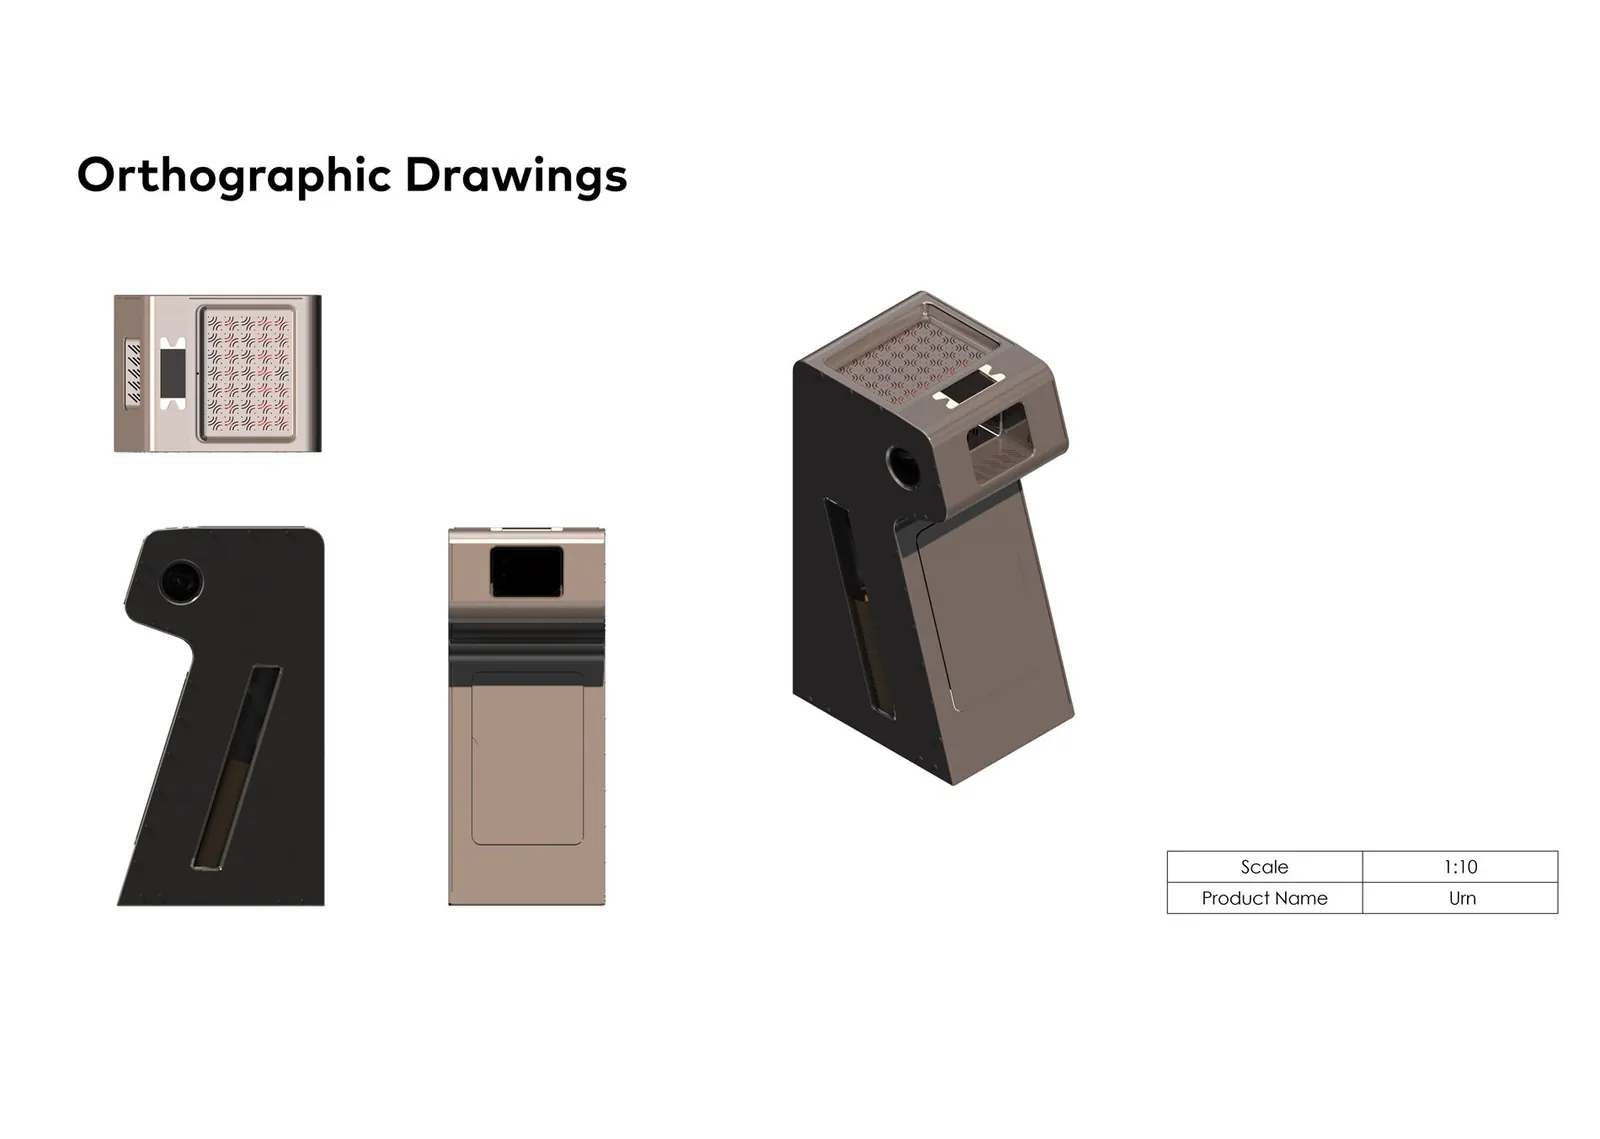
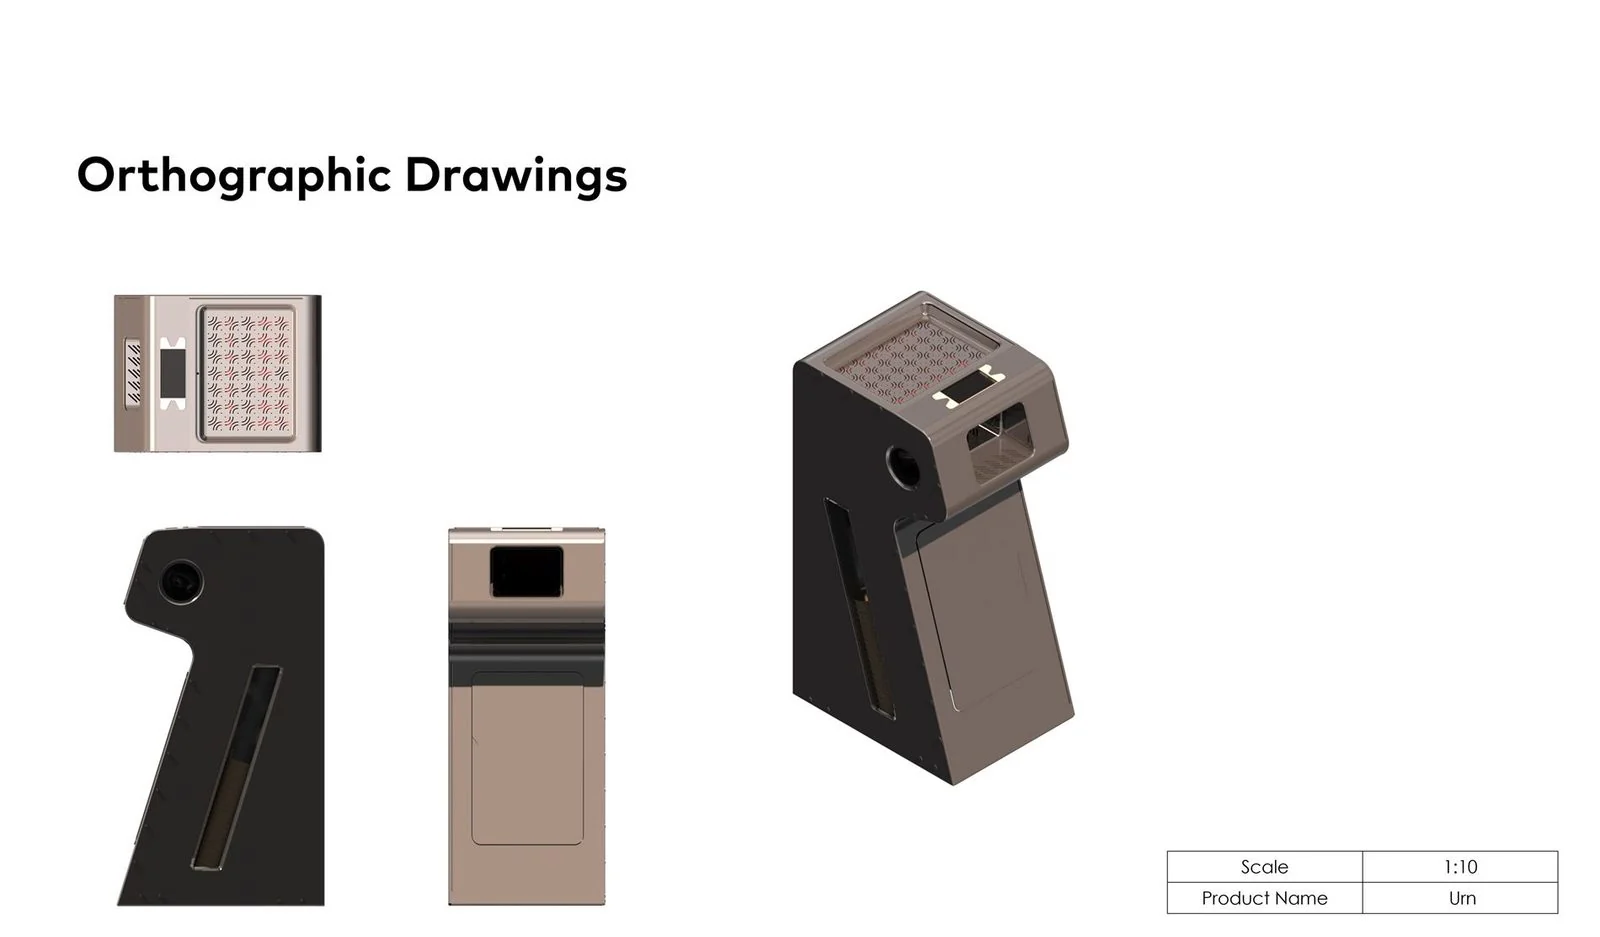
Case-study edits: Herptile + Urn (Bedirhan review round 1)
Herptile:
- Removed the DFM/DFA "foldability shaped the production method"
  section and the Prototype & Tests section (the CAD-only disclosure).
- Renumbered following sections, dropped both subnav links.

Urn:
- Added a second concept paragraph: the station also collects and
  recycles used cups, had to be easy to maintain and simple to use,
  used transit-card promotions to encourage public transport and ease
  Istanbul traffic, and ultimately aimed to draw people into
  socializing in their own neighborhood. All three languages.
- Cropped 202px of empty white off the bottom of the orthographic-
  drawings image.
- Removed the Prototype & Tests section, renumbered, dropped subnav.

Claude-Session: https://claude.ai/code/session_0165a9d6omfQcLmb3xZsq5Zj

diff --git a/work/herptile.html b/work/herptile.html
@@ -131,8 +131,6 @@
       <a href="#sketch" data-i18n="cs.subnav.sketch">Sketch</a>
       <a href="#cad" data-i18n="cs.subnav.cad">CAD</a>
       <a href="#muhendislik" data-i18n="cs.subnav.muhendislik">Mühendislik</a>
-      <a href="#dfm">DFM/DFA</a>
-      <a href="#prototip" data-i18n="cs.subnav.prototiptestler">Prototip &amp; Testler</a>
       <a href="#iterasyon" data-i18n="cs.subnav.iterasyon">İterasyon</a>
       <a href="#nihai" data-i18n="cs.subnav.nihai">Nihai</a>
       <a href="#kazanim" data-i18n="cs.subnav.kazanim">Kazanım</a>
@@ -208,24 +206,9 @@
     </div>
   </section>
 
-  <section class="case-section" id="dfm">
-    <div class="wrap" data-reveal>
-      <span class="eyebrow">08, <span data-i18n="cs.eyebrow.dfm">DFM / DFA</span></span>
-      <h2 data-i18n="cs.hp.dfm.h">Katlanabilirlik, üretim yöntemini şekillendirdi</h2>
-      <p data-i18n="cs.hp.dfm.p">Sac büküm, hem üçgen ayak yapısının tek parça büküm ile üretilmesine hem de gövdenin paylaşımlı tesislerde kolayca katlanıp saklanmasına imkan verdi. Bu, malzeme seçiminin sadece maliyet değil, tesis alanı kısıtı gibi hizmet düzeyi gereksinimlerinden de etkilendiği bir karardı.</p>
-    </div>
-  </section>
-
-  <section class="case-section" id="prototip">
-    <div class="wrap" data-reveal>
-      <span class="eyebrow">09, <span data-i18n="cs.eyebrow.prototiptestler">Prototip &amp; Testler</span></span>
-      <div class="callout" data-i18n-html="cs.hp.prototip.callout"><strong>Netlik için:</strong> Bu proje için fiziksel bir prototip üretilmedi, doğrulama CAD ve teknik çizim seviyesinde kaldı. Bu yüzden gerçek kullanım veya havuz testi de yapılmadı; kullanıcı doğrulaması ekosistem araştırması ve müşteri yolculuğu analizi seviyesinde kaldı.</div>
-    </div>
-  </section>
-
   <section class="case-section" id="iterasyon">
     <div class="wrap" data-reveal>
-      <span class="eyebrow">10, <span data-i18n="cs.eyebrow.iterasyon">İterasyon</span></span>
+      <span class="eyebrow">08, <span data-i18n="cs.eyebrow.iterasyon">İterasyon</span></span>
       <h2 data-i18n="cs.hp.iter.h">Genel ölçülerden mekanizma detayına</h2>
       <p data-i18n="cs.hp.iter.p">İlk eskizler yatağın genel ölçülerini belirledi, sonraki aşamada kayar platformun kablo ve yay mekanizması detaylandırıldı. Gövde formu, katlanabilirlik ve sac büküm üretim kısıtına göre yeniden şekillendirildi.</p>
     </div>
@@ -233,7 +216,7 @@
 
   <section class="case-section" id="nihai">
     <div class="wrap" data-reveal>
-      <span class="eyebrow">11, <span data-i18n="cs.eyebrow.nihai">Nihai Tasarım</span></span>
+      <span class="eyebrow">09, <span data-i18n="cs.eyebrow.nihai">Nihai Tasarım</span></span>
       <h2 data-i18n="cs.shared.result">Sonuç</h2>
       <div class="media-slot is-ready"><picture><source srcset="../assets/img/herptile/hero-render.webp" type="image/webp"><img src="../assets/img/herptile/hero-render.jpg" alt="Herptile istasyonu, havuz kenarında üç renk varyantıyla" loading="lazy" decoding="async"></picture></div>
     </div>
@@ -241,7 +224,7 @@
 
   <section class="case-section case-outcome" id="kazanim">
     <div class="wrap">
-      <span class="eyebrow">12, <span data-i18n="cs.eyebrow.kazanim">Kazanım</span></span>
+      <span class="eyebrow">10, <span data-i18n="cs.eyebrow.kazanim">Kazanım</span></span>
       <h2 data-i18n="cs.hp.kazanim.h">Fiziksel ürünü hizmet katmanıyla birlikte tasarlamak</h2>
       <p data-i18n="cs.hp.kazanim.p">Bu proje, tek bir nesneyi değil, doktor önerisinden kurumsal iş birliklerine uzanan bir sistemi tasarlama alıştırmasıydı. Sac büküm gövde tasarımı ile uygulama üzerinden yürüyen kullanıcı yolculuğunun yan yana durması, ürün ve hizmet tasarımının birlikte düşünülebildiğini gösteriyor.</p>
     </div>

diff --git a/work/urn.html b/work/urn.html
@@ -132,7 +132,6 @@
       <a href="#cad" data-i18n="cs.subnav.cad">CAD</a>
       <a href="#muhendislik" data-i18n="cs.subnav.muhendislik">Mühendislik</a>
       <a href="#dfm">DFM/DFA</a>
-      <a href="#prototip" data-i18n="cs.subnav.prototiptestler">Prototip &amp; Testler</a>
       <a href="#iterasyon" data-i18n="cs.subnav.iterasyon">İterasyon</a>
       <a href="#nihai" data-i18n="cs.subnav.nihai">Nihai</a>
       <a href="#kazanim" data-i18n="cs.subnav.kazanim">Kazanım</a>
@@ -177,6 +176,7 @@
       <span class="eyebrow">04, <span data-i18n="cs.eyebrow.konsept">Konsept Geliştirme</span></span>
       <h2 data-i18n="cs.urn.konsept.h">Sosyal etkileşim yönü seçildi</h2>
       <p data-i18n="cs.urn.konsept.p">İki yön arasından "sosyal etkileşim" konsepti geliştirmeye değer bulundu, çünkü çay Türk kültüründe zaten var olan bir sosyal ritüel ve yeni bir davranış öğretmek yerine mevcut bir alışkanlığı güçlendiriyor. Sistem, bir tramvay veya otobüs durağı gibi mahallenin günlük güzergâhına yerleşecek şekilde tasarlandı.</p>
+      <p data-i18n="cs.urn.konsept.p2">Sistem aynı zamanda atık bardakların makinede toplanıp geri dönüştürülebildiği bir istasyon olarak kurgulandı; bakımı kolay, kullanımı basit olmalıydı. Toplu taşıma kartı kullanımı arttıkça hediye sıcak içecek gibi promosyonlarla toplu taşımayı özendirerek İstanbul'un trafiğini bir ölçüde hafifletmesi hedeflendi. Nihayetinde amaç, insanları kendi mahallelerinde sosyalleşmeye yöneltmek ve o mahalleye daha ait hissettirmekti.</p>
       <div class="media-slot is-ready"><picture><source srcset="../assets/img/urn/concept-aim.webp" type="image/webp"><img src="../assets/img/urn/concept-aim.jpg" alt="Urn tasarımının amacı: çayı özgürlük, sosyal etkileşim ve başarı hissiyle birleştirmek" loading="lazy" decoding="async"></picture></div>
     </div>
   </section>
@@ -217,16 +217,9 @@
     </div>
   </section>
 
-  <section class="case-section" id="prototip">
-    <div class="wrap" data-reveal>
-      <span class="eyebrow">09, <span data-i18n="cs.eyebrow.prototiptestler">Prototip &amp; Testler</span></span>
-      <div class="callout" data-i18n-html="cs.urn.prototip.callout"><strong>Netlik için:</strong> Bu proje için fiziksel bir prototip üretilmedi, doğrulama CAD ve render seviyesinde kaldı. Bu yüzden gerçek kullanım veya saha testi de yapılmadı; kullanıcı doğrulaması saha araştırması ve AEIOU analizi aşamasında kaldı.</div>
-    </div>
-  </section>
-
   <section class="case-section" id="iterasyon">
     <div class="wrap" data-reveal>
-      <span class="eyebrow">10, <span data-i18n="cs.eyebrow.iterasyon">İterasyon</span></span>
+      <span class="eyebrow">09, <span data-i18n="cs.eyebrow.iterasyon">İterasyon</span></span>
       <h2 data-i18n="cs.urn.iter.h">Yapıdan tek üniteye</h2>
       <p data-i18n="cs.urn.iter.p">En büyük iterasyon, kapsam daraltmasıydı: ilk eskizlerdeki çok işlevli yapı (kule, bank, oyun masası) tek bir dağıtım ünitesine indirgendi. Bu karar, üretilebilirliği artırdı ve tasarımın bakım senaryosu gibi tek bir katmana derinlemesine odaklanmasını sağladı.</p>
     </div>
@@ -234,7 +227,7 @@
 
   <section class="case-section" id="nihai">
     <div class="wrap" data-reveal>
-      <span class="eyebrow">11, <span data-i18n="cs.eyebrow.nihai">Nihai Tasarım</span></span>
+      <span class="eyebrow">10, <span data-i18n="cs.eyebrow.nihai">Nihai Tasarım</span></span>
       <h2 data-i18n="cs.shared.result">Sonuç</h2>
       <div class="media-slot media-slot--sq7-5 is-ready"><picture><source srcset="../assets/img/urn/hero-lifestyle-render.webp" type="image/webp"><img src="../assets/img/urn/hero-lifestyle-render.jpg" alt="Urn'ün sokak ortamında kullanım render'ı" loading="lazy" decoding="async"></picture></div>
     </div>
@@ -242,7 +235,7 @@
 
   <section class="case-section case-outcome" id="kazanim">
     <div class="wrap">
-      <span class="eyebrow">12, <span data-i18n="cs.eyebrow.kazanim">Kazanım</span></span>
+      <span class="eyebrow">11, <span data-i18n="cs.eyebrow.kazanim">Kazanım</span></span>
       <h2 data-i18n="cs.urn.kazanim.h">Üretim düşüncesiyle tasarlanmış bir sistem</h2>
       <p data-i18n="cs.urn.kazanim.p">Proje bir CAD render setinde kalmadı. Ana gövde, kapaklar, drenaj tepsileri, çay kutusu ve bağlantı elemanları için malzeme ve üretim yöntemi (lazer kesim paslanmaz sac, enjeksiyon kalıplama polikarbonat, ekstrüzyon) tek tek tanımlandı. Konseptin gerçek bir üretim listesine dönüşmesinin somut bir örneği.</p>
       <div class="media-slot media-slot--sq7-5 media-slot--contain is-ready"><picture><source srcset="../assets/img/urn/production-details.webp" type="image/webp"><img src="../assets/img/urn/production-details.jpg" alt="Patlamış görünüm ve tam parça/malzeme listesi" loading="lazy" decoding="async"></picture></div>

diff --git a/assets/js/i18n.js b/assets/js/i18n.js
@@ -401,6 +401,7 @@ window.I18N = {
     "cs.urn.k5.k": "Social impact", "cs.urn.k5.v": "Must encourage social interaction by offering a waiting/seating area",
     "cs.urn.konsept.h": "The social interaction direction was chosen",
     "cs.urn.konsept.p": "Of the two directions, the \"social interaction\" concept was judged worth developing, because tea is already an existing social ritual in Turkish culture, reinforcing an existing habit rather than teaching a new behavior. The system was designed to sit within the neighborhood's daily route, like a tram or bus stop.",
+    "cs.urn.konsept.p2": "The station was also conceived to collect and recycle used cups in the machine itself, so it had to be easy to maintain and simple to use. As transit-card use grew, promotions such as a free hot drink were meant to encourage public transport and ease Istanbul's traffic by a measure. In the end the aim was to draw people into socializing in their own neighborhood and to make them feel they belong there.",
     "cs.urn.sketch.h": "From a single unit to a small structure",
     "cs.urn.sketch.p": "The first sketches explored not a single dispensing unit but a small structure that also housed seating and waiting functions: a tall dispensing tower, a bridge/bench element to sit on, and a game table alongside it. This broad exploration was later simplified around a single unit.",
     "cs.urn.cad.h": "Scaled technical definition",
@@ -872,6 +873,7 @@ window.I18N = {
     "cs.urn.k5.k": "Soziale Wirkung", "cs.urn.k5.v": "Muss soziale Interaktion fördern, indem ein Warte-/Sitzbereich angeboten wird",
     "cs.urn.konsept.h": "Die Richtung soziale Interaktion wurde gewählt",
     "cs.urn.konsept.p": "Von den beiden Richtungen wurde das Konzept „soziale Interaktion\" als entwicklungswürdig eingestuft, da Tee in der türkischen Kultur bereits ein bestehendes soziales Ritual ist und ein bestehendes Verhalten verstärkt, statt ein neues zu lehren. Das System wurde so gestaltet, dass es sich in die tägliche Route der Nachbarschaft einfügt, wie eine Straßenbahn- oder Bushaltestelle.",
+    "cs.urn.konsept.p2": "Die Station war zudem so gedacht, dass gebrauchte Becher in der Maschine gesammelt und recycelt werden, sie musste also wartungsarm und einfach zu bedienen sein. Mit steigender Nutzung der Verkehrskarte sollten Aktionen wie ein kostenloses Heißgetränk den ÖPNV fördern und Istanbuls Verkehr ein Stück weit entlasten. Letztlich ging es darum, Menschen zum Austausch im eigenen Viertel zu bewegen und ihr Zugehörigkeitsgefühl zu stärken.",
     "cs.urn.sketch.h": "Von einer einzelnen Einheit zu einer kleinen Struktur",
     "cs.urn.sketch.p": "Die ersten Skizzen erkundeten nicht eine einzelne Ausgabeeinheit, sondern eine kleine Struktur, die auch Sitz- und Wartefunktionen beherbergte: einen hohen Ausgabeturm, ein Brücken-/Bankelement zum Sitzen und einen Spieltisch daneben. Diese breite Erkundung wurde in der nächsten Phase auf eine einzelne Einheit vereinfacht.",
     "cs.urn.cad.h": "Maßstäbliche technische Definition",
@@ -1343,6 +1345,7 @@ window.I18N = {
     "cs.urn.k5.k": "Sosyal etki", "cs.urn.k5.v": "Bekleme ve oturma alanı sunarak sosyal etkileşimi teşvik etmeli",
     "cs.urn.konsept.h": "Sosyal etkileşim yönü seçildi",
     "cs.urn.konsept.p": "İki yön arasından \"sosyal etkileşim\" konsepti geliştirmeye değer bulundu, çünkü çay Türk kültüründe zaten var olan bir sosyal ritüel ve yeni bir davranış öğretmek yerine mevcut bir alışkanlığı güçlendiriyor. Sistem, bir tramvay veya otobüs durağı gibi mahallenin günlük güzergâhına yerleşecek şekilde tasarlandı.",
+    "cs.urn.konsept.p2": "Sistem aynı zamanda atık bardakların makinede toplanıp geri dönüştürülebildiği bir istasyon olarak kurgulandı; bakımı kolay, kullanımı basit olmalıydı. Toplu taşıma kartı kullanımı arttıkça hediye sıcak içecek gibi promosyonlarla toplu taşımayı özendirerek İstanbul'un trafiğini bir ölçüde hafifletmesi hedeflendi. Nihayetinde amaç, insanları kendi mahallelerinde sosyalleşmeye yöneltmek ve o mahalleye daha ait hissettirmekti.",
     "cs.urn.sketch.h": "Tek üniteden küçük bir yapıya",
     "cs.urn.sketch.p": "İlk eskizler tek bir dağıtım ünitesini değil, oturma ve bekleme işlevini de barındıran küçük bir yapıyı araştırdı: yüksek bir dağıtım kulesi, üzerine oturulabilen bir köprü/bank elemanı ve yanında bir oyun masası. Bu geniş araştırma, sonraki aşamada tek bir ünite etrafında sadeleştirildi.",
     "cs.urn.cad.h": "Ölçekli teknik tanım",